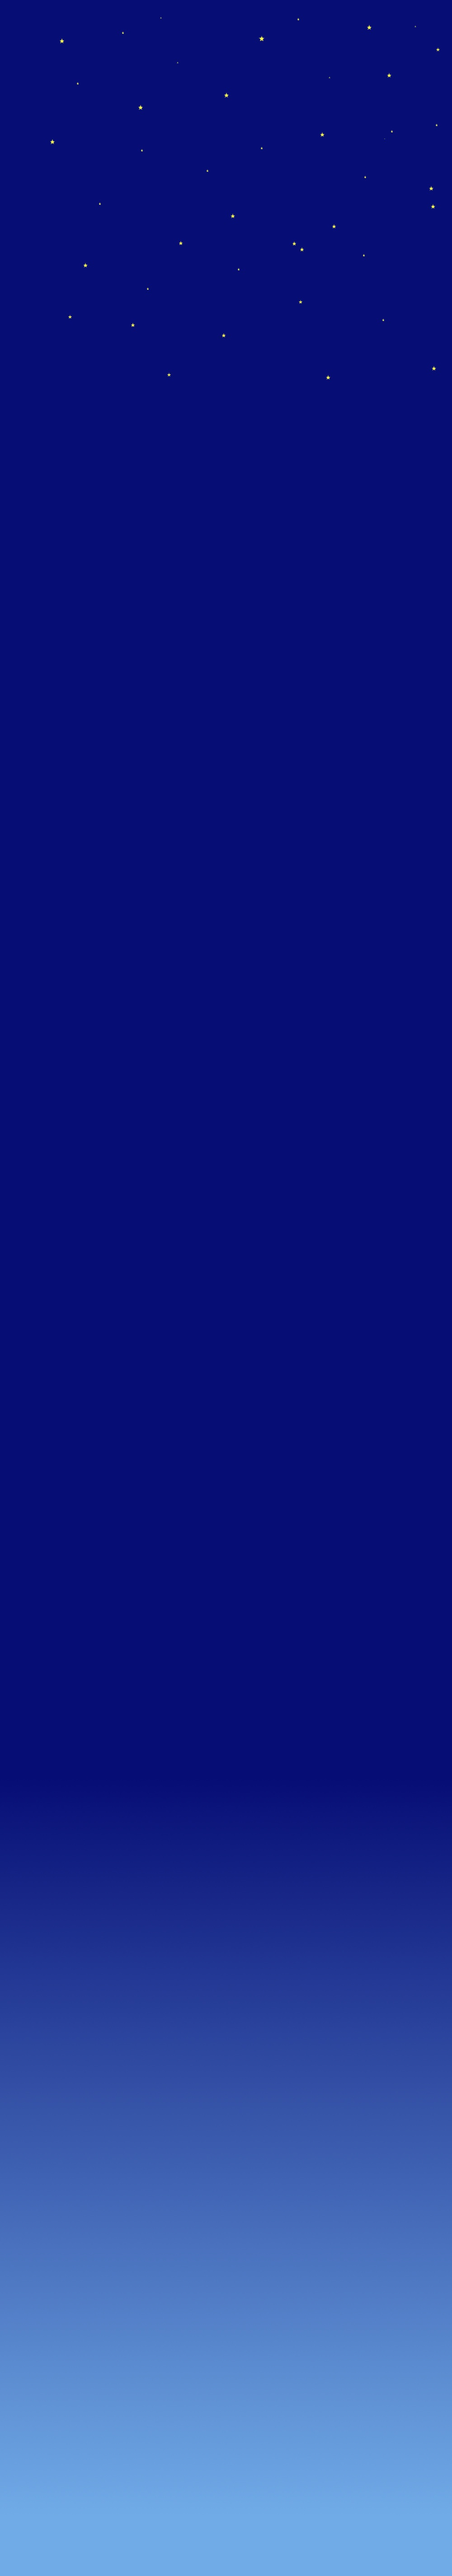
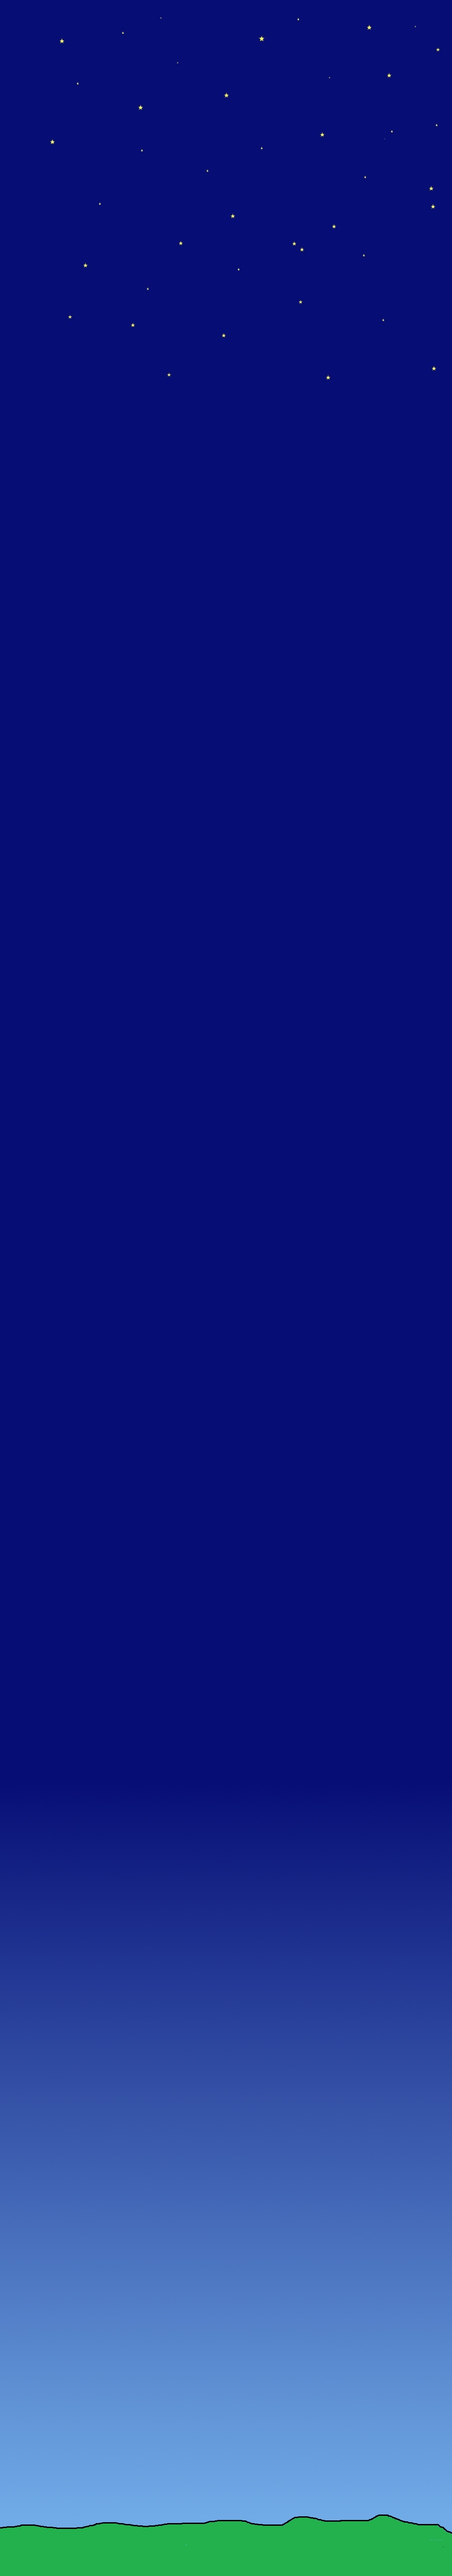
changes

Changed region(s): [[0.0, 0.9688, 1.0, 1.0]]

diff --git a/Sasi/css/style.css b/Sasi/css/style.css
@@ -1,11 +1,12 @@
-body {background:#060D75;}
+body {background:#000258}
+/*#060D75;}*/
 
-#night{background: url('Images/night.png') repeat-x bottom;width:100%;height:450px;position:absolute;top:0;left:0;z-index:3000;}
+#night{background: url('../Images/plane.png') no-repeat right;width:100%;height:500px;position:absolute;top:0;left:0;z-index:3000;}
 /*#topnight{background: #1a3162;width:100%;height:500px;position:absolute;top:0;left:0;z-index:3000;}*/
-#night-stars{background: url('../Images/alien.png') no-repeat right;width:100%;height:400px;position:absolute;top:0;left:0;z-index:3001;}
+#night-stars{background: url('../Images/wd.png') no-repeat center;width:100%;height:400px;position:absolute;top:0;left:0;z-index:3001;}
 #moon{position:absolute;top:50px;left:900px;width:85px;height:130px;background:url('Images/moon.png');z-index:9999;}
 
-#container{position:absolute;left:0;right:0;margin:0 auto;text-align:center;width:1000px;height:5700px;background:url('../Images/bg.jpg') no-repeat bottom center;}
+#container{position:absolute;left:0;right:0;margin:0 auto;text-align:center;width:1000px;height:5700px;background:url('../Images/bg3.gif') no-repeat bottom center;}
 #thank-you-container {background:url('thank-you/bg.jpg') left bottom no-repeat;position:absolute;bottom:0;width:999px;height:1224px;}
 .clear{clear:both;}
 .form{position:absolute;bottom:420px;left:60px;}
@@ -21,25 +22,31 @@ body {background:#060D75;}
 #rain .rain5 {height:400px;width:5px;background:url('../Images/placeholder.jpg') repeat;margin:2px 5px 0 0; float:left;}
 #rain .rain6 {height:400px;width:5px;background:url('../Images/placeholder.jpg') repeat;margin:5px 8px 0 0; float:left;}
 
-#cloud1 {position:absolute;top:4900px;left:50px;width:59px;height:40px;background:url('../Images/cloud1.png');}
-#cloud2 {position:absolute;top:4200px;left:850px;width:68px;height:36px;background:url('../Images/cloud2.png');}
-#cloud3 {position:absolute;top:4900px;left:850px;width:46px;height:21px;background:url('../Images/cloud3.png');}
-#cloud4 {position:absolute;top:3700px;left:650px;width:59px;height:40px;background:url('../Images/cloud4.png');}
-#cloud5 {position:absolute;top:3400px;left:200px;width:68px;height:36px;background:url('../Images/cloud5.png');}
-#cloud6 {position:absolute;top:3000px;left:250px;width:46px;height:21px;background:url('../Images/cloud6.png');}
-#cloud7 {position:absolute;top:2150px;left:720px;width:59px;height:40px;background:url('../Images/cloud6.png');}
-#cloud8 {position:absolute;top:2020px;left:10px;width:46px;height:21px;background:url('../Images/cloud6.png');}
-#cloud9 {position:absolute;top:1600px;left:350px;width:59px;height:40px;background:url('../Images/cloud6.png');}
-#cloud10 {position:absolute;top:1300px;left:750px;width:68px;height:36px;background:url('../Images/cloud6.png');}
-#cloud11 {position:absolute;top:1320px;left:590px;width:46px;height:21px;background:url('../Images/cloud6.png');}
-#cloud12 {position:absolute;top:1010px;left:900px;width:59px;height:40px;background:url('../Images/cloud6.png');}
-#cloud13 {position:absolute;top:880px;left:200px;width:68px;height:36px;background:url('../Images/cloud6.png');}
-#cloud14 {position:absolute;top:620px;left:710px;width:46px;height:21px;background:url('../Images/cloud6.png');}
-#cloud15 {position:absolute;top:420px;left:100px;width:68px;height:36px;background:url('../Images/cloud6.png');}
+#cloud1 {position:absolute;top:4900px;left:50px;width:150px;height:90px;background:url('../Images/cloud1.png');}
+#cloud2 {position:absolute;top:4200px;left:850px;width:150px;height:90px;background:url('../Images/cloud1.png');}
+#cloud3 {position:absolute;top:4900px;left:850px;width:150px;height:90px;background:url('../Images/cloud2.png');}
+#cloud4 {position:absolute;top:3700px;left:650px;width:120px;height:110px;background:url('../Images/pig.gif');}
+#cloud5 {position:absolute;top:3400px;left:200px;width:150px;height:90px;background:url('../Images/cloud3.png');}
+#cloud6 {position:absolute;top:3000px;left:250px;width:150px;height:90px;background:url('../Images/cloud1.png');}
+#cloud7 {position:absolute;top:1600px;left:550px;width:350px;height:130px;background:url('../Images/superman.gif');}
+#cloud8 {position:absolute;top:2020px;left:10px;width:150px;height:90px;background:url('../Images/cloud2.png');}
+#cloud9 {position:absolute;top:2150px;left:720px;width:150px;height:90px;background:url('../Images/cloud2.png');}
+#cloud10 {position:absolute;top:1300px;left:750px;width:150px;height:90px;background:url('../Images/cloud2.png');}
+#cloud11 {position:absolute;top:1320px;left:590px;width:150px;height:90px;background:url('../Images/cloud2.png');}
+#cloud12 {position:absolute;top:1010px;left:830px;width:150px;height:90px;background:url('../Images/cloud2.png');}
+#cloud13 {position:absolute;top:880px;left:200px;width:150px;height:90px;background:url('../Images/cloud2.png');}
+#cloud14 {position:absolute;top:620px;left:310px;background: url('../Images/alien.png') no-repeat center;width:350px;height:400px;}
+#cloud15 {position:absolute;top:620px;left:100px;width:150px;height:90px;background:url('../Images/cloud2.png');}
 
 
 
-#ants {position:absolute;top:5578px;left:215px;width:139px;height:64px;background:url('../Images/placeholder.jpg');}
+#cloudlink1{position:absolute;top:450px;left:210px;width:150px;height:90px;background:url('../Images/cloud2.png');title:'our-story'}
+#cloudlink2{position:absolute;top:490px;left:350px;width:150px;height:90px;background:url('../Images/cloud2.png');title:'brides-party'}
+#cloudlink3{position:absolute;top:390px;left:530px;width:150px;height:90px;background:url('../Images/cloud2.png');title:'grooms-party'}
+#cloudlink4{position:absolute;top:420px;left:710px;width:150px;height:90px;background:url('../Images/cloud2.png');title:'venue'}
+/*#cloudlink5{position:absolute;top:460px;left:830px;width:150px;height:90px;background:url('../Images/cloud2.png');title:''}*/
+
+
 #bee1 {position:absolute;top:5570px;left:100px;width:21px;height:29px;background:url('../Images/placeholder.jpg');}
 #bee2 {position:absolute;top:5535px;left:732px;width:24px;height:25px;background:url('../Images/placeholder.jpg');}
 #bird1 {position:absolute;top:4570px;left:100px;width:57px;height:47px;background:url('../Images/placeholder.jpg');}
@@ -73,6 +80,7 @@ body {background:#060D75;}
 #star3 {position:absolute;top:850px;left:200px;width:28px;height:48px;background:url('Images/star1.gif');}
 #star4 {position:absolute;top:920px;left:800px;width:28px;height:33px;background:url('Images/star2.gif');}*/
 #tire {position:absolute;top:5530px;left:355px;width:57px;height:58px;background:url('../Images/placeholder.jpg');}
+#balloon {position:fixed;bottom:-50px;left:50px;width:400px;height:760px;background:url('../Images/balloon2.gif') no-repeat;}
 #tree-topper{position:absolute;top:485px;left:470px;width:73px;height:114px;background:url('../Images/placeholder.jpg');}
 
 
@@ -98,3 +106,15 @@ body {background:#060D75;}
 #t_7pm {position:absolute;top:1165px;left:255px;width:108px;height:51px;background:url('Images/t_7pm.gif');}
 #t_141 {position:absolute;top:765px;left:165px;width:167px;height:104px;background:url('Images/t_141.gif');}
 #t_cantwait{position:absolute;top:150px;left:240px;width:518px;height:89px;background:url('Images/t_cantwait.png');z-index:9999;}
+
+#text_div1 {position:absolute;top:5450px;left:400px;width:600px;height:220px;background:url('../Images/heyyou.gif') no-repeat;}
+#text_div2 {position:absolute;top:4900px;left:315px;width:320px;height:150px;background:url('../Images/freebirds.png');}
+#text_div3 {position:absolute;top:4450px;left:315px;width:150px;height:100px;background:url('../Images/time.png');}
+#text_div4 {position:absolute;top:4000px;left:315px;width:400px;height:280px;background:url('../Images/stairway.png');}
+#text_div5 {position:absolute;top:3550px;left:315px;width:500px;height:80px;background:url('../Images/highway.png');}
+#text_div6 {position:absolute;top:3100px;left:315px;width:100px;height:200px;background:url('../Images/come.png');}
+#text_div7 {position:absolute;top:2650px;left:315px;width:100px;height:200px;background:url('../Images/wholelottalove.png');}
+#text_div8 {position:absolute;top:2200px;left:315px;width:100px;height:200px;background:url('../Images/heroes.png');}
+#text_div9 {position:absolute;top:1750px;left:315px;width:100px;height:200px;background:url('../Images/date.png');}
+
+#

diff --git a/Sasi/Home.html b/Sasi/Home.html
@@ -52,7 +52,11 @@ img.emoji {
 
 
 <div id="night"></div>
-<div id="night-stars"></div>
+<div id="night-stars">
+  <form action="links/Venue.html">
+      <input type="submit" value="Go to Venue" />
+  </form>
+</div>
 
 <div id="container">
 	<div id="ants"></div>
@@ -90,6 +94,11 @@ img.emoji {
 	<div id="cloud13"></div>
 	<div id="cloud14"></div>
 	<div id="cloud15"></div>
+  <div id="cloudlink1"></div>
+  <div id="cloudlink2"></div>
+  <div id="cloudlink3"></div>
+  <div id="cloudlink4"></div>
+  <div id="cloudlink5"></div>
 	<div id="cupid"></div>
 	<div id="cupid_swinging"></div>
 	<div id="heart"></div>
@@ -97,6 +106,15 @@ img.emoji {
 	<div id="kiss"></div>
 	<div id="kissing"></div>
 	<div id="moon"></div>
+  <div id="text_div1"></div>
+  <div id="text_div2"></div>
+  <div id="text_div3"></div>
+  <div id="text_div4"></div>
+  <div id="text_div5"></div>
+  <div id="text_div6"></div>
+  <div id="text_div7"></div>
+  <div id="text_div8"></div>
+  <div id="text_div9"></div>
 	<div id="rain">
 		<div class="rain1"></div>
 		<div class="rain2"></div>
@@ -107,6 +125,7 @@ img.emoji {
 	</div>
 	<div id="registry"></div>
 	<div id="rsvp"></div>
+  <div id="balloon"></div>
 	<div id="tire"></div>
 	<div id="scroll"></div>
 	<div id="tree-topper"></div>

diff --git a/Sasi/links/Venue.html b/Sasi/links/Venue.html
@@ -1,0 +1,41 @@
+<!DOCTYPE html>
+<html>
+  <head>
+    <style>
+       #map {
+        height: 96vh;
+        width: 100%;
+        border:5px cadetblue;
+       }
+       body{
+         background: lightblue;
+         overflow:hidden
+       }
+       div#title{
+         font-size:2em;
+         font-family: monospace;
+         margin-bottom:0.25em;
+       }
+    </style>
+  </head>
+  <body>
+    <div id="title">Venue</div>
+    <div id="map"></div>
+    <script>
+      function initMap() {
+        var uluru = {lat: 10.4941282, lng: 76.2723674};
+        var map = new google.maps.Map(document.getElementById('map'), {
+          zoom: 12,
+          center: uluru
+        });
+        var marker = new google.maps.Marker({
+          position: uluru,
+          map: map
+        });
+      }
+    </script>
+    <script async defer
+    src="https://maps.googleapis.com/maps/api/js?key=AIzaSyAeZwwvaineJorjthRinRwTb9x87V_8d08&callback=initMap">
+    </script>
+  </body>
+</html>
